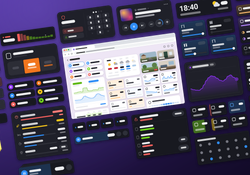
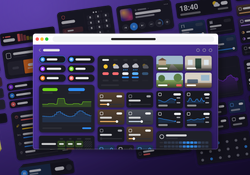
App Store images: the browser upright on top, readable at 250 px
The light browser among the dark cards looked off, and a dark one tilted
among them wasn't seen as a browser in the small image. The web
dashboard's window now floats upright over the dimmed collage, on the
brand purple, with one light toolbar whose traffic lights and address
are drawn thicker at the small sizes (dev/app-images.json's `browser`:
its width and toolbar height per size; `{space: n}` keeps its room in
the collage).

diff --git a/test/app-images.test.ts b/test/app-images.test.ts
@@ -3,19 +3,23 @@ import { describe, expect, it } from 'vitest';
 
 // The App Store images are rendered from the widget previews by `npm run app-images` (scripts/app-images.mjs).
 const config = JSON.parse(readFileSync('dev/app-images.json', 'utf8'));
-// A column's item: a widget id, a row of ids, or the browser window with columns of its own (and maybe its own theme).
-type Item = string | string[] | { browser: string[][], span?: number, theme?: string };
-const previews = (config.columns as Item[][]).flat().flatMap(item => typeof item === 'string' || Array.isArray(item)
-  ? [item].flat().map(id => ({ id, theme: config.theme }))
-  : item.browser.flat().map(id => ({ id, theme: item.theme ?? config.theme })));
+// A column's item: a widget id, a row of ids, or the space the browser on top covers; the browser has columns of its own.
+type Item = string | string[] | { space: number };
+const ids = [
+  ...(config.columns as Item[][]).flat().flatMap(item => typeof item === 'string' ? [item] : Array.isArray(item) ? item : []),
+  ...(config.browser?.columns.flat() ?? []) as string[],
+];
 
 describe('app store images', () => {
   it('are made from widgets that have a preview, each once', () => {
-    const ids = previews.map(p => p.id);
     expect(ids.length).toBeGreaterThan(0);
     expect(new Set(ids).size).toBe(ids.length);
-    for (const { id, theme } of previews) expect(existsSync(`widgets/${id}/preview-${theme}.png`), id).toBe(true);
+    for (const id of ids) expect(existsSync(`widgets/${id}/preview-${config.theme}.png`), id).toBe(true);
     expect(config.background.stops.length).toBeGreaterThanOrEqual(2);
+  });
+
+  it("size the browser for each of Homey's sizes", () => {
+    for (const key of ['width', 'toolbar']) expect(Object.keys(config.browser[key]).sort(), key).toEqual(['large', 'small', 'xlarge']);
   });
 
   it("are the app's images, in Homey's sizes", () => {

diff --git a/.claude/rules/renders.md b/.claude/rules/renders.md
@@ -10,7 +10,7 @@ paths:
 # Renders (app images, previews, screenshots, clips, showcases)
 
 - Renders run headless Edge through `scripts/headless.mjs` (`EDGE`, `HEADLESS`, `freshProfile()`, `edge(args, {virtualTime})`: default `--virtual-time-budget=4000`, `null` for none; the icon download). They show made-up data on a fixed clock: **never put real device names or readings in them.** Every render is byte-identical between runs, except the live electricity chart's antialiasing (the electricity screenshot and the Home, Energy and Kitchen showcases). An endless CSS animation isn't (its phase varies): `screenshots.html` and `showcase.html` hold the Keypad's pulsing dot still (`.kp-dot.next`); do the same for a new one.
-- `npm run app-images` (wk-067): the three App Store PNGs (`assets/images/`, 250×175, 500×350, 1000×700) from the widget previews, with sharp, no Edge (`scripts/app-images.mjs`). `dev/app-images.json` sets the widgets and their order (`columns`: each item a widget id, a row of ids side by side, or `{browser: [[ids]], span, theme}`, the drawn browser window of a web dashboard, `span` columns wide (2), 16:10, with those columns of cards on Plum, cut off at the bottom; its chrome drawn like the previews' text, bars and no words, colours from `dev/web-showcase.html`), the previews' `theme`, `tilt`, `columnWidth` (a fraction of the image), `gap`/`stagger` (preview px) and the background: a gradient in the brand colour `#2A1958` (`stops`, evenly spaced, at a CSS-like `angle`) with a soft radial `glow` (centre and radius as fractions), drawn as an SVG by sharp. It replaced a blurred photo (`dev/hero.webp`) at the user's request (2026-10-18). The browser and more widgets (23 readable, 31 placed) came at the user's request (2026-10-25): the browser light among the dark cards, so it reads as a web page even in the 250 px image; a column is as wide as its widest item, and a row's cards line up toward the column's middle, so the rows above and below the browser close up to it. Homey's guidelines (read 2026-10-25) forbid the Homey logo, name or device, not text or UI. Each card is cut to its opaque box (alpha ≥ 250, not `trim()`, which takes the shadow) plus 64 px of shadow and scaled to 800 px wide (≤ 1), the columns are centred and staggered, the layer rotated at full size, then scaled down once per size; it throws rather than scale a preview up. Same inputs, same bytes. `npm run previews` re-renders them when it rendered a preview they use. `test/app-images.test.ts` checks the config and the sizes.
+- `npm run app-images` (wk-067): the three App Store PNGs (`assets/images/`, 250×175, 500×350, 1000×700) from the widget previews, with sharp, no Edge (`scripts/app-images.mjs`). `dev/app-images.json` sets the widgets and their order (`columns`: each item a widget id, a row of ids side by side, or `{space: n}`, room n cards wide and 16:10 that the browser covers), the previews' `theme`, `tilt`, `columnWidth` (a fraction of the image), `gap`/`stagger` (preview px) and the background: a gradient in the brand colour `#2A1958` (`stops`, evenly spaced, at a CSS-like `angle`) with a soft radial `glow` (centre and radius as fractions), drawn as an SVG by sharp. It replaced a blurred photo (`dev/hero.webp`) at the user's request (2026-10-18). The browser and more widgets (31 placed) came at the user's request (2026-10-25): `browser` is a web dashboard's window drawn upright on top of the tilted collage (`dim` darkens the collage under it), 16:10, with its own `columns` of cards on the `page` gradient (brand purple), cut off at the bottom, drawn like the previews' text (bars, no words); `width` (a fraction of the image) and `toolbar` (its height in px) per size. The user's pick (2026-10-26) of mockups, as **the 250 px image is the hard one**: a light browser among the dark cards looked off, a dark one tilted among them wasn't seen as a browser, and so wasn't a tab strip with a toolbar shrunk to a hairline. What reads there is the browser upright and large (74 % of the width at 250 px) with one light toolbar, its traffic lights and address field drawn thicker (11 px tall at 250 px, 16 at 500, 23 at 1000). A column is as wide as its widest item, and a row's cards line up toward the column's middle, so the rows above and below a space close up to it. Homey's guidelines (read 2026-10-25) forbid the Homey logo, name or device, not text or UI. Each card is cut to its opaque box (alpha ≥ 250, not `trim()`, which takes the shadow) plus 64 px of shadow and scaled to 800 px wide (≤ 1), the columns are centred and staggered, the layer rotated at full size, then scaled down once per size; it throws rather than scale a preview up. Same inputs, same bytes. `npm run previews` re-renders them when it rendered a preview they use. `test/app-images.test.ts` checks the config and the sizes.
 - `npm run previews [-- qa-dark …]`: the widget preview PNGs from `dev/widget-previews.html` (the "Widget Previews" Claude Design project; `?p=elec-dark` shows one frame), plus the README's `docs/previews/<widget>-<light|dark>.png` (cropped to the card with sharp). A new widget needs an entry in the frame-id prefix → widget map in `scripts/render-previews.mjs`. The README overview isn't a table (GitHub's `max-width: 100%` collapsed the image column on phones): each widget is one `<p>` with a 120 px `<picture>` floated left (`align="left"`), the bold linked name, the description and `<br clear="left">`.
 - `npm run screenshots [-- thermostat …]`: `docs/screenshots/*.png` from the `<section class="shot">` ids of `dev/screenshots.html`: the real widgets in Homey's dark mode, 358 px (a phone's widget width) at 3x, no title, transparent. The data is the showcase's house; `dev/mock-dashboard.js` picks widgets (`findWidget(type, n)`) and mounts them through `MOUNT` (`dev/showcase-mount.js`). It downloads the library icons into `temp/screenshot-icons.js`.
 - `npm run clips [-- lights stack]`: the README clips `docs/clips/<id>.webp` (`lights`, `stack`, `media`, `timers`, `sensordots`, `curtains`, `rename`, `keypad`; animated WebP plays inline on GitHub, an MP4 would be a link); they replaced the Light Controls, Activity Dots, Timers, Curtains and Media screenshots. The Keypad's (2026-10-25, the user's ask: the screenshot's made-up alarm on a tap, a wrong code, the right one 1234, Arm without a code; `grow`) heads its section, and its screenshot (the keypad always shown) moved down to the paragraph on Always. `scripts/render-clips.mjs` drives `dev/clips.html?c=<id>` over DevTools (`--remote-debugging-port`, Node's `WebSocket`) with real touch events (`Input.dispatchTouchEvent`), screenshots as fast as they come (~16/s) and joins them with sharp 0.34+ (`join: {animated: true}`). The page has simulated devices (the clock runs on), a drawn finger and a callout on top of the widget (the user's choice; keep its text under ~40 characters).
